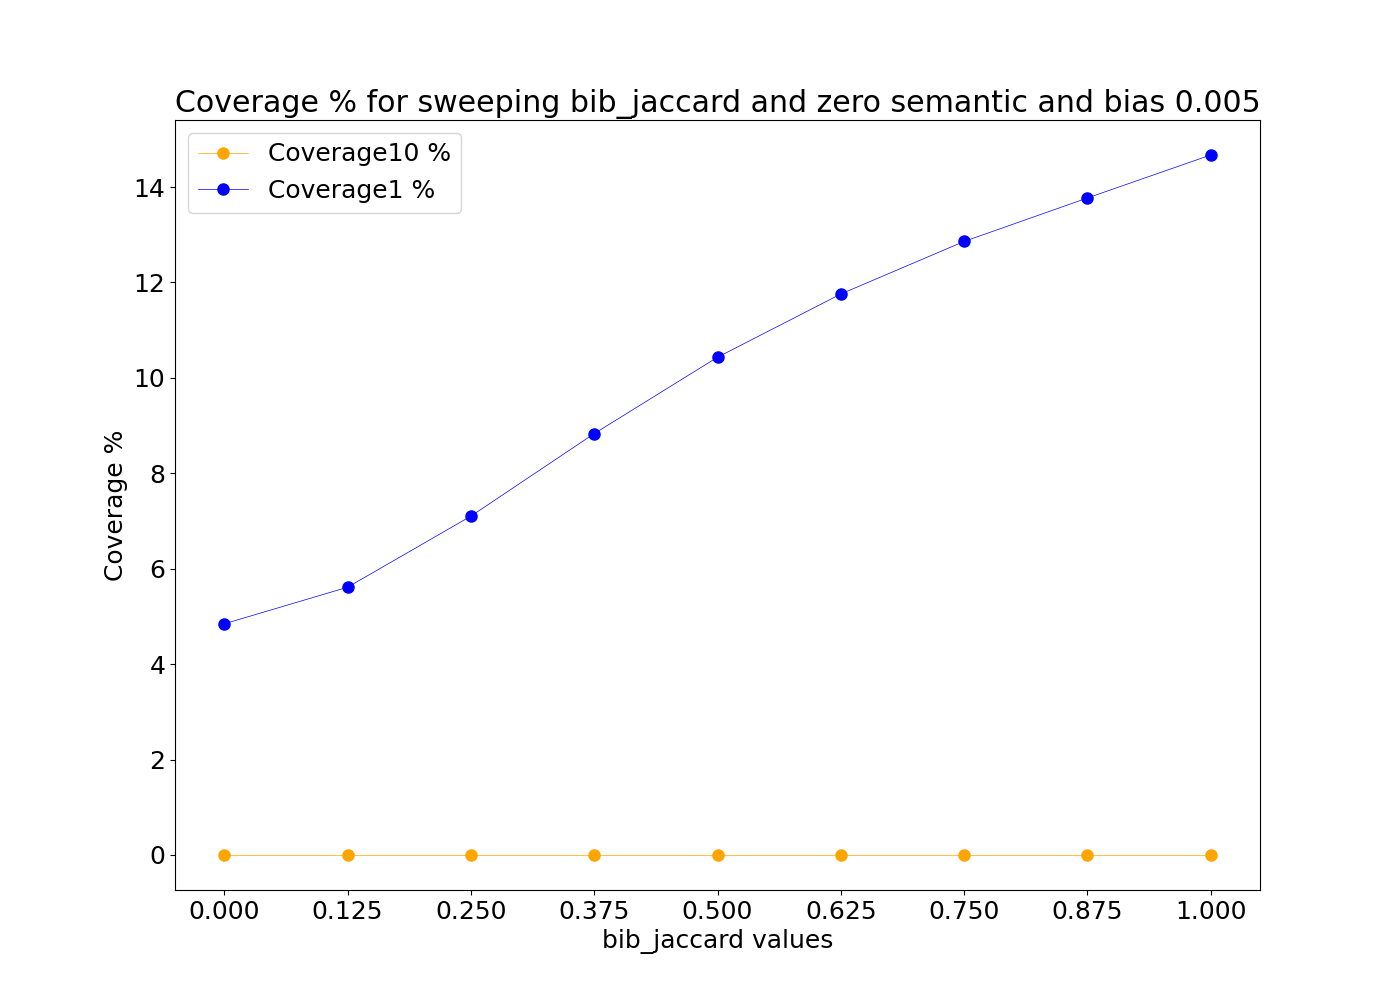
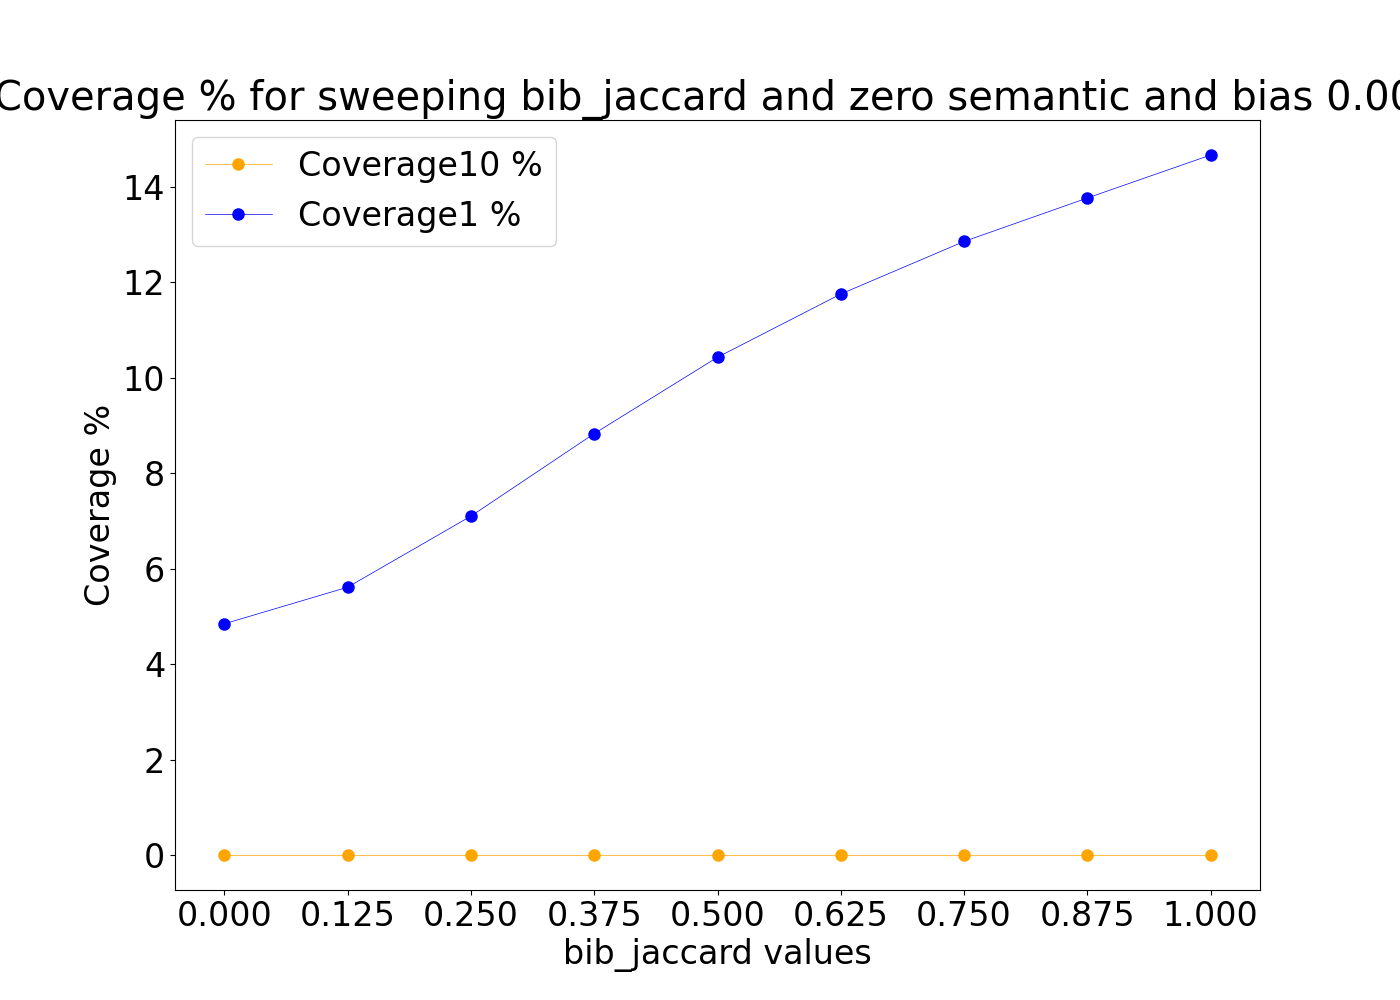
Increased font

diff --git a/step_10_cluster/weighting_clustering_pipeline.py b/step_10_cluster/weighting_clustering_pipeline.py
@@ -751,7 +751,7 @@ def plot_sweep_topological_features_only(result_dir, figure_save_dir_base):
             coverage_1_array.append(cov1)
             coverage_10_array.append(cov10)
 
-        plt.rcParams.update({'font.size': 18})
+        plt.rcParams.update({'font.size': 24})
         with open('files/results/sweep_bi_feature/unweighted.json', 'r') as file:
             clustering_dict_loaded_unweighted = json.load(file)
 
